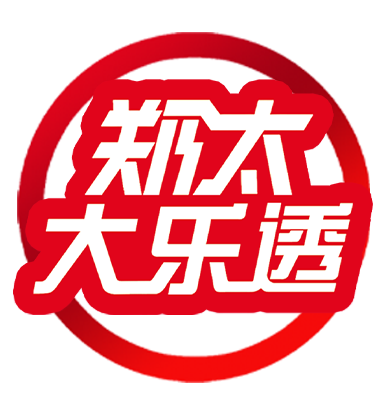
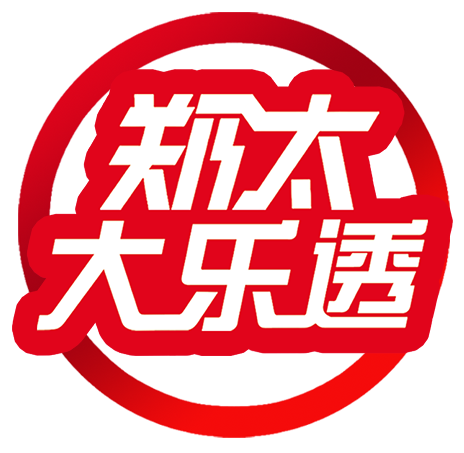
coding img

diff --git a/public/screen/css/indexPC.css b/public/screen/css/indexPC.css
@@ -59,7 +59,7 @@ ul,li{
 	flex-shrink: 1;
 }
 .indexPC2 .acMain img{
-	/*width:100%;*/
+	width:100%;
 	/*height:80%;*/
 }
 .acl{
